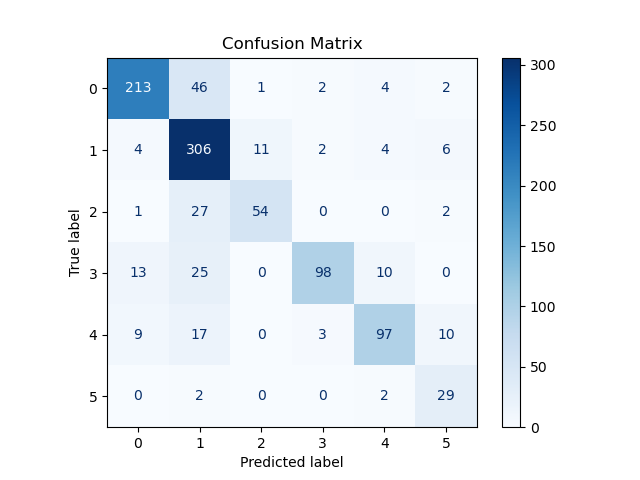
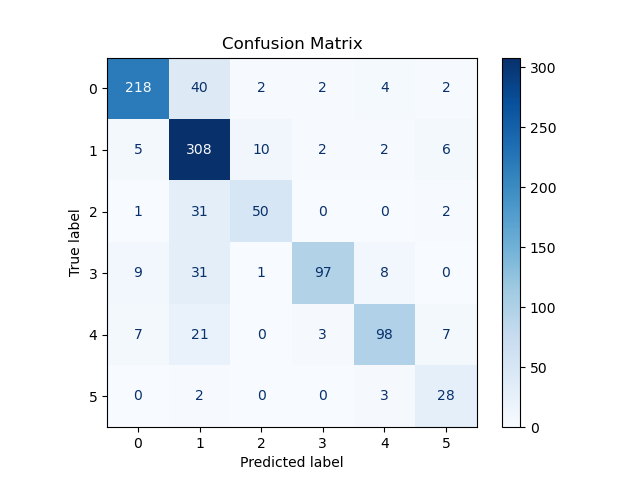
add pipeline  Tfidf

diff --git a/src/features/feature_engineering.py b/src/features/feature_engineering.py
@@ -2,7 +2,7 @@ import numpy as np
 import pandas as pd
 import os
 import sys
-from sklearn.feature_extraction.text import CountVectorizer
+from sklearn.feature_extraction.text import TfidfVectorizer
 import yaml
 import logging
 
@@ -33,8 +33,8 @@ def save_data(data_path: str, train_df: pd.DataFrame, test_df: pd.DataFrame) -> 
     try:
         os.makedirs(data_path, exist_ok=True)
         # index=False use karein taaki csv mein extra column na jude
-        train_df.to_csv(os.path.join(data_path, "train_bow.csv"), index=False)
-        test_df.to_csv(os.path.join(data_path, "test_bow.csv"), index=False)
+        train_df.to_csv(os.path.join(data_path, "train_tfidf.csv"), index=False)
+        test_df.to_csv(os.path.join(data_path, "test_tfidf.csv"), index=False)
         logger.info(f"BoW features successfully save ho gaye: {data_path}")
     except Exception as e:
         logger.error(f"Data save karne mein error: {e}")
@@ -68,17 +68,17 @@ def main():
         x_test, y_test = test_data['text'].values, test_data['label'].values
 
         # 5. Vectorization
-        logger.info(f"CountVectorizer apply ho raha hai (max_features={max_features})...")
-        vectorizer = CountVectorizer(max_features=max_features)
+        logger.info(f"TfidfVectorizer apply ho raha hai (max_features={max_features})...")
+        vectorizer = TfidfVectorizer(max_features=max_features)
         
-        x_train_bow = vectorizer.fit_transform(x_train)
-        x_test_bow = vectorizer.transform(x_test)
+        x_train_tfidf = vectorizer.fit_transform(x_train)
+        x_test_tfidf = vectorizer.transform(x_test)
 
         # 6. Create Resulting DataFrames
-        train_df = pd.DataFrame(x_train_bow.toarray())
+        train_df = pd.DataFrame(x_train_tfidf.toarray())
         train_df['label'] = y_train
         
-        test_df = pd.DataFrame(x_test_bow.toarray())
+        test_df = pd.DataFrame(x_test_tfidf.toarray())
         test_df['label'] = y_test
 
         # 7. Save

diff --git a/src/model/model_building.py b/src/model/model_building.py
@@ -43,7 +43,7 @@ def save_model(clf, data_path: str) -> None:
 def main() -> None:
     try:
         # 1. Load Data
-        train_path = './data/features/train_bow.csv'
+        train_path = './data/features/train_tfidf.csv'
         if not os.path.exists(train_path):
             raise FileNotFoundError(f"Feature file nahi mili: {train_path}")
 

diff --git a/src/model/model_evaluation.py b/src/model/model_evaluation.py
@@ -20,7 +20,7 @@ logger.addHandler(console_handler)
 def main():
     try:
         # 1. Load Data check
-        test_path = './data/features/test_bow.csv'
+        test_path = './data/features/test_tfidf.csv'
         model_path = 'models/model.pkl'
 
         if not os.path.exists(test_path):
